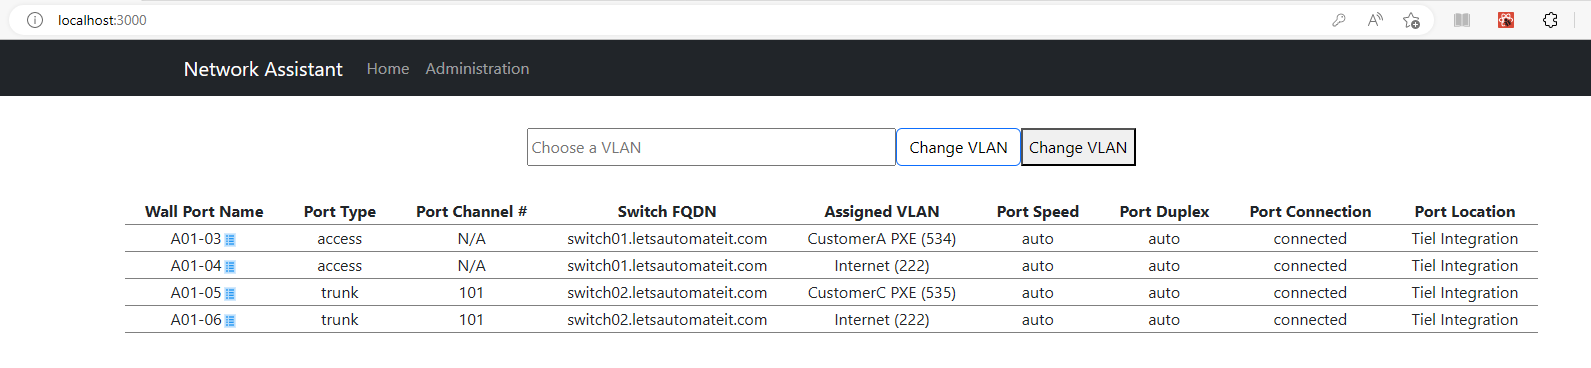
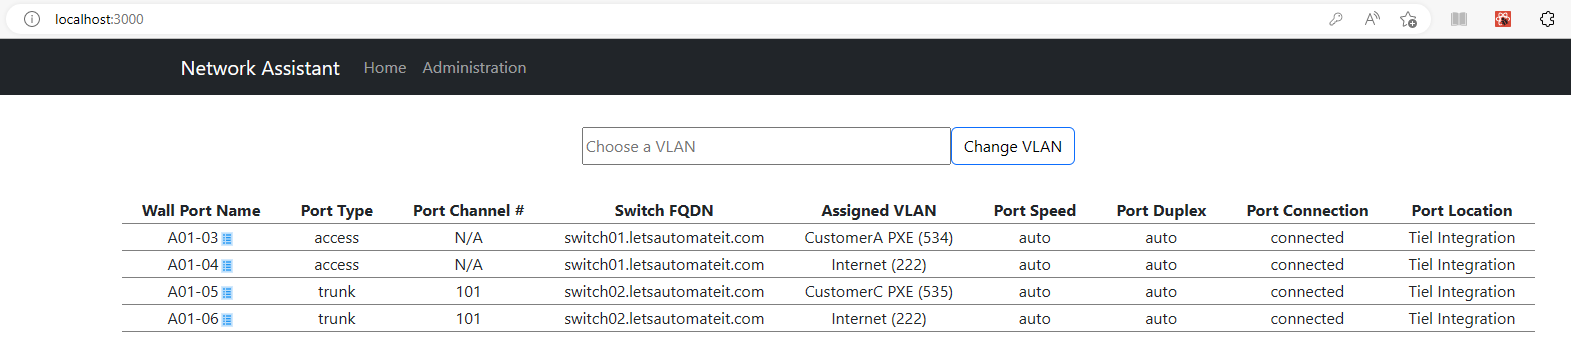
Removed extra Change VLAN button

diff --git a/front-end/src/Pages/HomePage.js b/front-end/src/Pages/HomePage.js
@@ -97,7 +97,6 @@ const HomePage = () => {
                 {vlan.map((vlan)=><option key={vlan}>{vlan}</option>)}
             </datalist>
             <AssignVlan vlanName={vlanName} selectedPorts={selectedPorts}/>
-            <button>Change VLAN</button>
         </div>
     <div className="portListing table">
       <table className="portListingTable">

diff --git a/README.md b/README.md
@@ -6,4 +6,4 @@ This is a recreation and improved version of my previous network assistant tool.
 Development
 
 ## Screenshot
-<img src="https://github.com/karlbaker/network-assistant/blob/main/images/NetworkAssistant_Screenshot_01.png?raw=true" height="300"/>
+<img src="https://github.com/karlbaker/network-assistant/blob/main/images/NetworkAssistant_Screenshot_01.png?raw=true" height="200"/>
